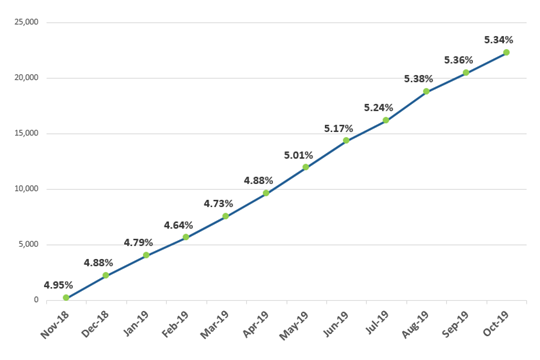
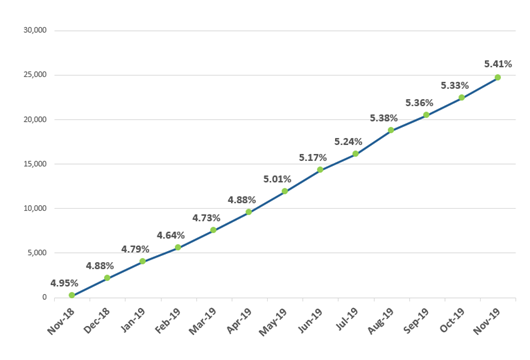
Commit of Content/Live use cases/NHS 111 Discovery frailty flagging.htm,Content/Resources/frailty codes.xlsx,Content/Resources/Images/Frailty graph.png

diff --git a/Content/Live use cases/NHS 111 Discovery frailty flagging.htm b/Content/Live use cases/NHS 111 Discovery frailty flagging.htm
@@ -7,12 +7,12 @@
         <p>Since the project went live in November 2018, the Discovery Data Service has: 
 		</p>
         <ul>
-            <li class="bullets">handled 1,107,409 API requests</li>
-            <li class="bullets">matched 417,672 patients</li>
-            <li class="bullets">flagged 22,285 potentially frail patients</li>
+            <li class="bullets">handled 1,211,456 API requests</li>
+            <li class="bullets">matched 456,053 patients</li>
+            <li class="bullets">flagged 24,656 potentially frail patients</li>
             <li class="bullets"><a href="../Popups/Frailty graph.htm" class="MCTopicPopup MCTopicPopupHotSpot MCXref xref" MadCap:width="750px" MadCap:height="750px">Monthly totals</a>
             </li>
-            <li class="bullets">Latest update: 29 October 2019</li>
+            <li class="bullets">Latest update: 25 November 2019</li>
         </ul>
         <h2>Project summary</h2>
         <p>The NHS 111 Discovery frailty flagging project utilises  Discovery data to flag key information to NHS 111 call handlers to improve the patient pathway and experience, and reduce the unnecessary use of emergency services and admission to A&amp;E.</p>
